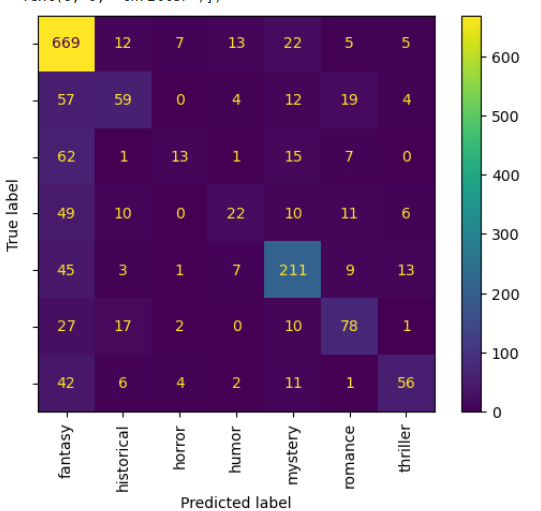
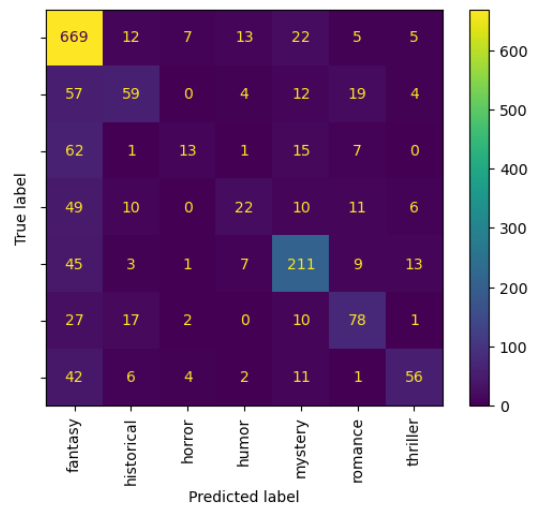
Minor Updates

diff --git a/README.md b/README.md
@@ -275,7 +275,7 @@ Our pick is still LogisticRegression.
 ### With Deep Learning Techniques:
 Between Dense Layer Neural Network and Convolutional Neural Network(CNN), CNN performed better overall though it took a longer fit time. It is also the most complex model considered here.
 
-![alt text](images/dl.png)
+![alt text](images/results_dl.png)
 
 Dense Network Summary:
 
